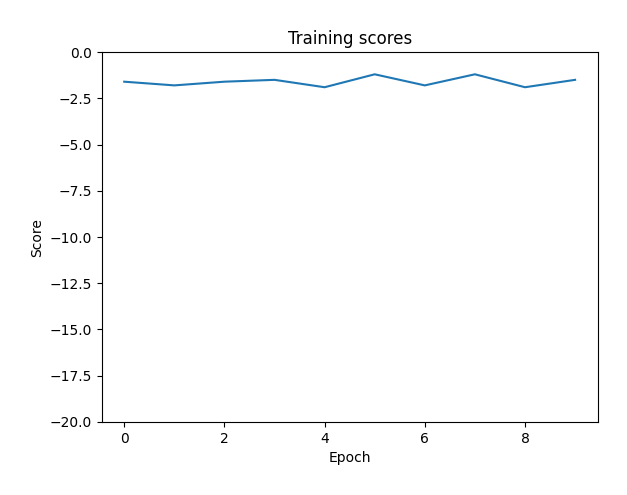
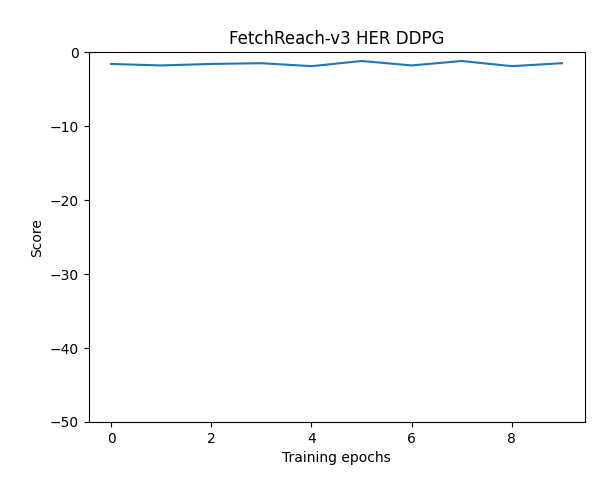
better plots

diff --git a/examples/plotterFromOutput.py b/examples/plotterFromOutput.py
@@ -1,6 +1,8 @@
 import matplotlib.pyplot as plt
+import os
 
-file = open("demo/test", "r")
+filename = "FetchPush-v2_HER_REDQ.txt"
+file = open(os.path.join("outputs", filename), "r")
 lines = file.readlines()
 
 goto_sentence = "test_reward: "
@@ -12,11 +14,17 @@ for line in lines:
         pos += len(goto_sentence)
         array.append(float(line[pos:pos+8]))
 
-x = range(100)
+x = range(len(array))
 plt.plot(x, array)
 
-plt.xlabel('Epoch')
+plt.xlabel('Training epochs')
 plt.ylabel('Score')
-plt.title('Training scores')
+plt.title(filename[:-4].replace("_", " "))
 
-plt.show()
+plt.ylim(-50, 0)
+
+# plt.show()
+
+output_dir = "plots"
+plt.savefig(os.path.join(output_dir, filename[:-4]+".png"),
+            bbox_inches="tight", pad_inches=0.3)
